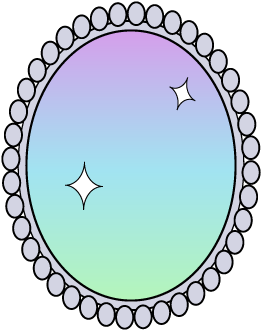
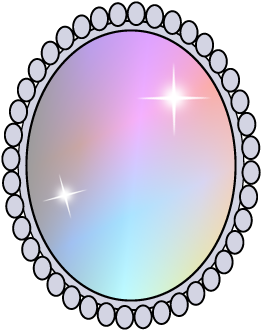
9:35

diff --git a/magic/flip/style.css b/magic/flip/style.css
@@ -9,95 +9,109 @@
 }
 
 body {
-  width: 100vw;
   margin: 0;
   padding: 0;
-  background-color: black;
+  background-image: linear-gradient(to bottom right, #22ffef, #7c40ff, #ced32d, #ef0dff);
+  background-attachment: fixed;
+  background-position: center;
+  background-repeat: no-repeat;
+  background-size: cover;
+  font-family: Sneak-Regular;
+}
+
+.blackbox p{
+  color:#d3d4e3;
+  margin-top: 9px;
+  margin-left: 12px;
 }
 
 .front {
-	display: inline-block;
-	margin:0 auto;
-	text-align: center;
-	margin-top:20vh;
-}
-
-.glimmers {
-  z-index: 100;
-  position: relative;
-  margin:0 auto;
-}
-
-.glimmers img{
-  width:5vw;
-}
-
-.rings img{
-	width:40vw;
-	margin:0 auto;
-}
-
-.rings img:hover {
-	cursor: pointer;
-}
-
-.text {
-  font-family: Sneak-Regular;
-  font-size: 3.75em;
-  letter-spacing: .05em;
-}
-
-.back p{
-	display: block;
-	font-family: Sneak-Regular;
-  color:#d3d4e3;
-  margin-top: 50px;
-  margin-left: 80px;
-  font-size: 2.5em;
-}
-
-.back p:hover {
-	cursor: pointer;
-}
-
-.gradient {
-  position: absolute;
-  top: 0;
-  left: 0;
-  background-image: linear-gradient(to bottom right, #22ffef, #7c40ff, #ced32d, #ef0dff);
-  width: 100vw;
-  height: 100vh;
-  margin: 0;
-  padding: 0;
-  z-index: -1;
-  box-sizing: border-box;
+    margin: 0;
+    top: 46vh;
 }
 
 .blackbox {
   background-color: black;
-  position: absolute;
-  padding;left: 35px;
-  padding;right: 35px;
-  padding;bottom: 35px;
-  padding;top: 35px;
+  position: fixed;
+  padding;left: 32px;
+  padding;right: 32px;
+  padding;bottom: 32px;
+  padding;top: 32px;
 }
 
 .gradient2 {
-  margin: 0 auto;
-  height: 280px;
-  width:220px;
+  height:68vh;
+  width:50vh;
   border-radius: 50%;
+  position: fixed;
+   text-align: center;
+    margin: 0;
+    top: 50%;
+    left: 50%;
+    -ms-transform: translate(-50%, -50%);
+    transform: translate(-50%, -50%);
 }
 
 .front img {
-    margin: 0 auto;
-    top:-305px;
-    position: relative;
+  height:80vh;
+  position: fixed;
+  text-align: center;
+  margin: 0;
+  top: 50%;
+  left: 50%;
+  -ms-transform: translate(-50%, -50%);
+  transform: translate(-50%, -50%);
 }
 
 .front img:hover {
   cursor: pointer;
 }
 
+.text {
+  font-size: 3.75em;
+  letter-spacing: .05em;
+}
+
+.back {
+    margin: 0;
+    top: 46vh;
+}
+
+.back p{
+	font-family: sans-serif;
+  color:black;
+  font-size: 2em;
+  text-align: center;
+  width:280px;
+  margin:0 auto;
+  padding-top:100px;
+}
+
+.ringback {
+  height:68vh;
+  width:50vh;
+  border-radius: 50%;
+  background-color: #d3d4e3;
+  position: fixed;
+  text-align: center;
+  margin: 0;
+  left: 50%;
+  -ms-transform: translate(-50%, -50%);
+  transform: translate(-50%, -50%);
+}
+
+.back img {
+  height:80vh;
+  position: fixed;
+  text-align: center;
+  margin: 0;
+  left: 50%;
+  -ms-transform: translate(-50%, -50%);
+  transform: translate(-50%, -50%);
+}
+
+.back img:hover {
+  cursor: pointer;
+}
 
 

diff --git a/magic/flip/index.html b/magic/flip/index.html
@@ -26,33 +26,26 @@
 
 </head>
 <body>
+	<div class="blackbox">
+     <p>Click ring to reveal...</p>
+    </div>
 
-	<div class="gradient"></div>
-	<div class="blackbox"></div>
- <div id="card"> 
-    
+ <div id="card">  
 
     <div class="front"> 
 
-<!--     	<div class="glimmers">
-    		<img src="images/glimmer1.png">
-    		<img src="images/glimmer2.png">
-    		<img src="images/glimmer3.png">
-    		<img src="images/glimmer4.png">
-    	</div> -->
 <div class="gradient2"></div>
-<img src="images/frame2.png">
-<!--     	<div class="rings">
-            <img src="images/ring.png">
-        </div> -->
+<img src="images/frame2big.png">
         
     </div> 
 
 	<div class="back">
-			<p>GO BACK</p>
-
-			<p>Mystical Internet
-		</p>
+			
+<div class="ringback">
+    <p>It is 54°F.
+        <br/>in Providence, RI.</p>
+</div>
+<img src="images/backframebig.png">
 
 	</div>
 </div>

diff --git a/magic/magic.js b/magic/magic.js
@@ -16,7 +16,7 @@ var step = 0;
 var colorIndices = [0,1,2,3];
 
 //transition speed
-var gradientSpeed = 0.0009;
+var gradientSpeed = 0.001;
 
 function updateGradient()
 {
